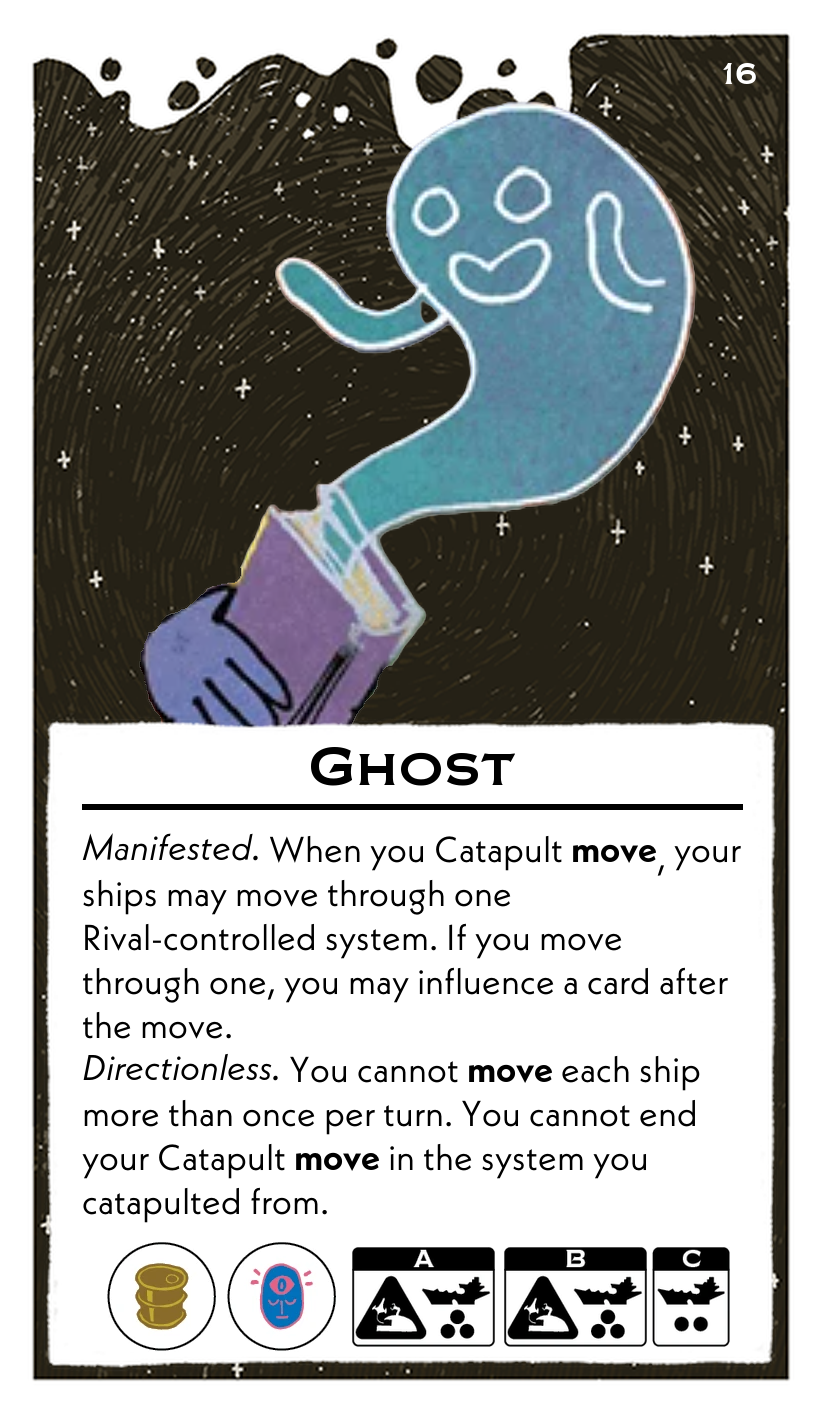
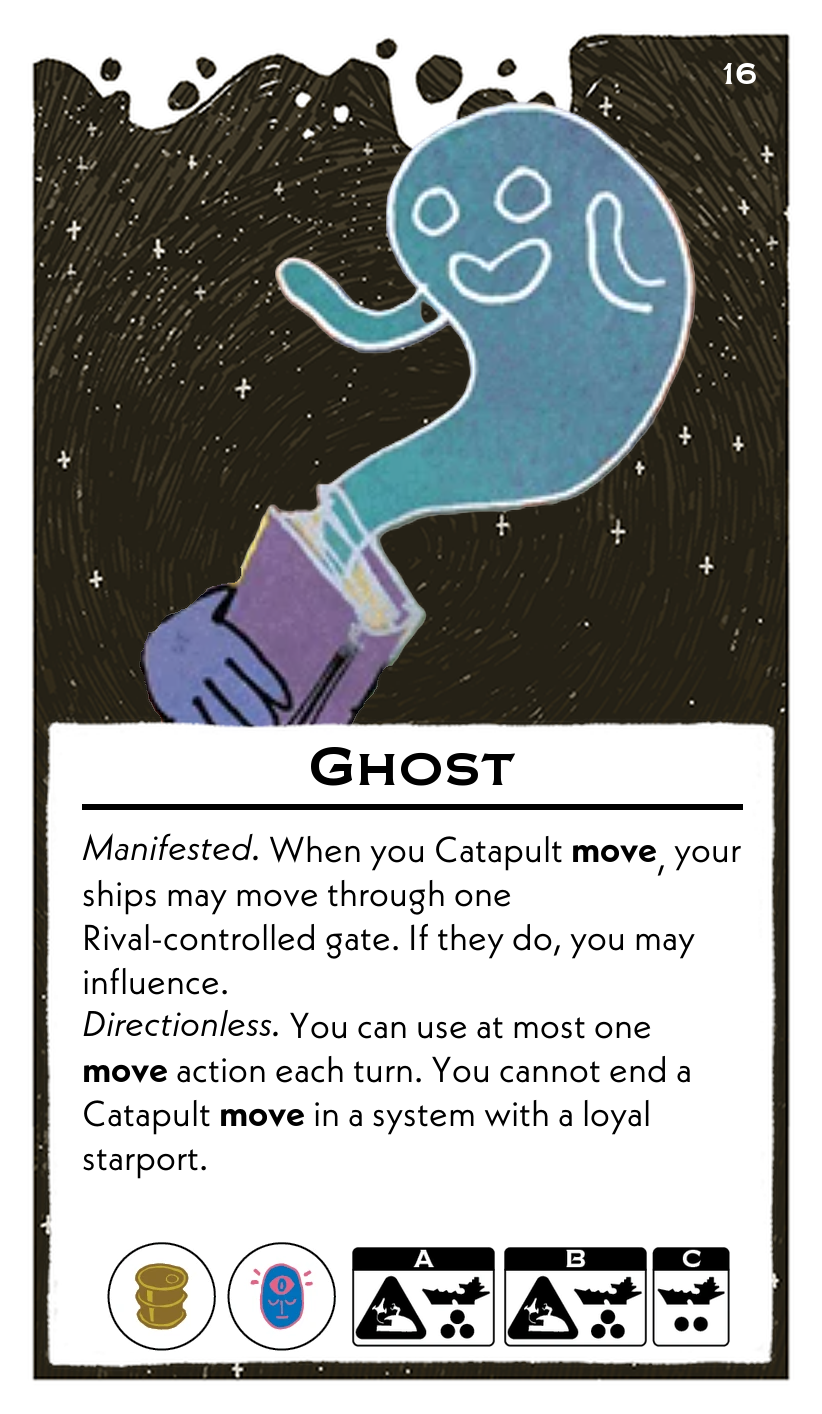
3 ls

Changed region(s): [[0.0912, 0.6535, 0.882, 0.8713]]

diff --git a/scripts/leadersFormatted.py b/scripts/leadersFormatted.py
@@ -83,7 +83,7 @@ leaders = [
         "name": "General",
         "abilities": (
             "*Blitzing.* After you **tax**, you may discard a resource to gain a Weapon. When attacking in **battle**, you may discard a Weapon to ignore one rolled intercept.\n"
-            "*Reckless.* In **battle**, you must always roll at least 1 die of each type if you can."
+            "*Reckless.* In **battle**, you must always roll at least 1 die of each type if you can. (1 type with 1, 2 with 2.)"
         ),
         "resources": ["Weapon", "Weapon"],
         "setup": {
@@ -243,8 +243,8 @@ leaders = [
     {
         "name": "Ghost",
         "abilities": (
-            "*Manifested.* When you Catapult **move**, your ships may move through one Rival-controlled system. If you move through one, you may influence a card after the move.\n"
-            "*Directionless.* You cannot **move** each ship more than once per turn. You cannot end your Catapult **move** in the system you catapulted from."
+            "*Manifested.* When you Catapult **move**, your ships may move through one Rival-controlled gate. If they do, you may influence.\n"
+            "*Directionless.* You can use at most one **move** action each turn. You cannot end a Catapult **move** in a system with a loyal starport."
         ),
         "resources": ["Fuel", "Psionic"],
         "setup": {
@@ -571,7 +571,7 @@ leaders = [
         "name": "Bargainer",
         "abilities": (
             "*Leveraged.* You may return a player’s trophy or captive to **tax** one of their cities.\n"
-            "*Obliged.* When you score points from an ambition, you must return a trophy or captive, if you can’t, score no points."
+            "*Obliged.* To score points from an ambition, you must return a trophy or captive, if you don't, score no points."
         ),
         "resources": ["Weapon", "Relic"],
         "setup": {
